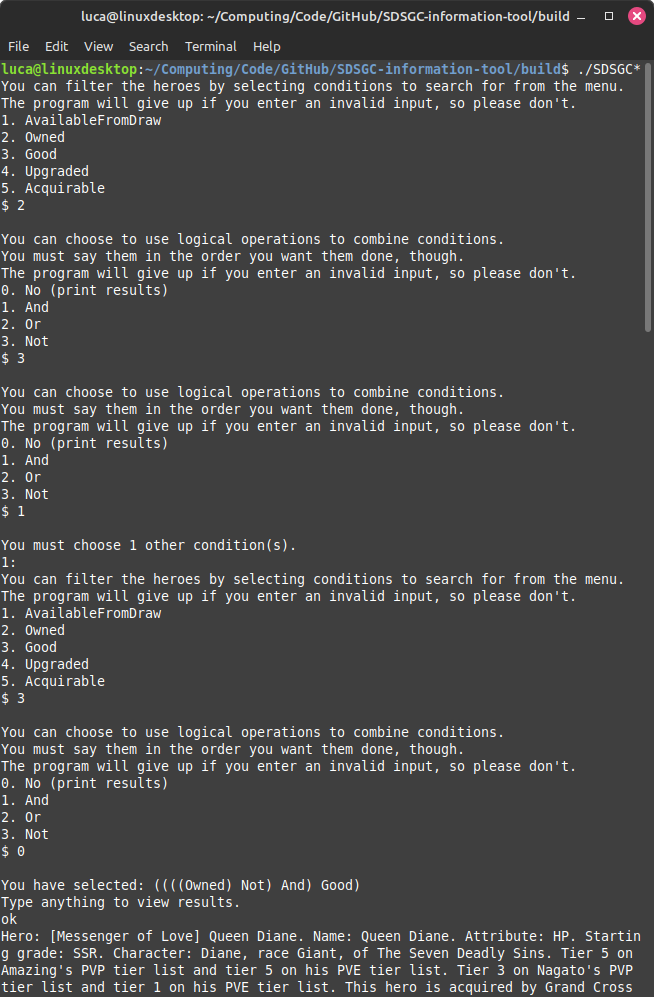
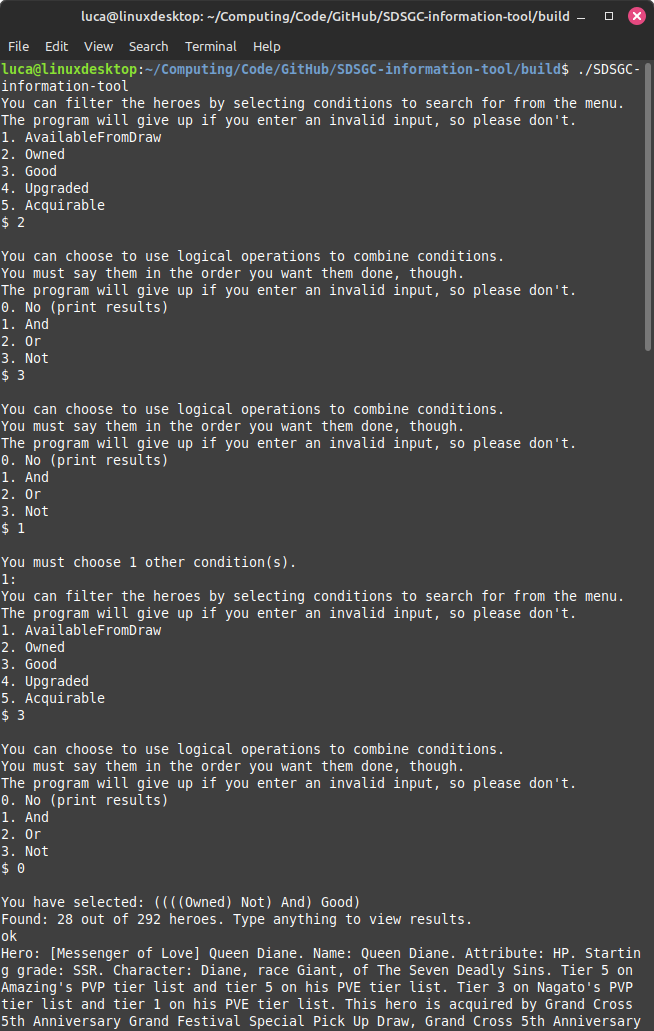
Updated demo and added workflow

diff --git a/index.html b/index.html
@@ -16,8 +16,8 @@
 
 
 <h2>Projects</h2>
-<p> A tool I made (and released on GitHub) for accessing information. Includes a menu with options for filtering by different conditions and combinations (AND etc). </p>
-<img src="resources/SDSGC-information-tool-demo.png" alt="An image demonstrating a tool I made for accessing information. Includes a menu with options for filtering by different conditions and combinations (AND etc)." width="654" height="997">
+<p> A tool I'm currently working on (and releasing on GitHub) for accessing customised information about a game. Includes a menu with options for filtering by different conditions and combinations. </p>
+<img src="resources/SDSGC-information-tool-demo.png" alt="An image demonstrating a tool I'm currently working on (and releasing on GitHub) for accessing customised information about a game. Includes a menu with options for filtering by different conditions and combinations." width="654" height="997">
 
 <p>A game I made in Python based on a Python tutorial. </p>
 <img src="resources/Alien-Invasion-demo.png" width="600" height="416" alt="An image demonstrating a game I made in Python based on a Python tutorial.">
